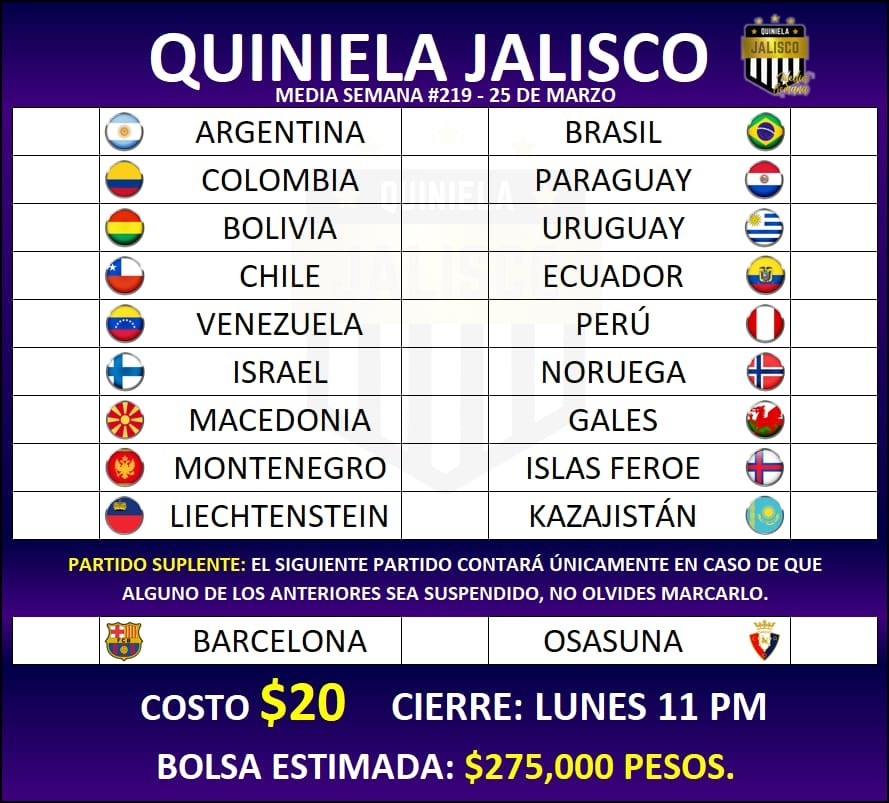
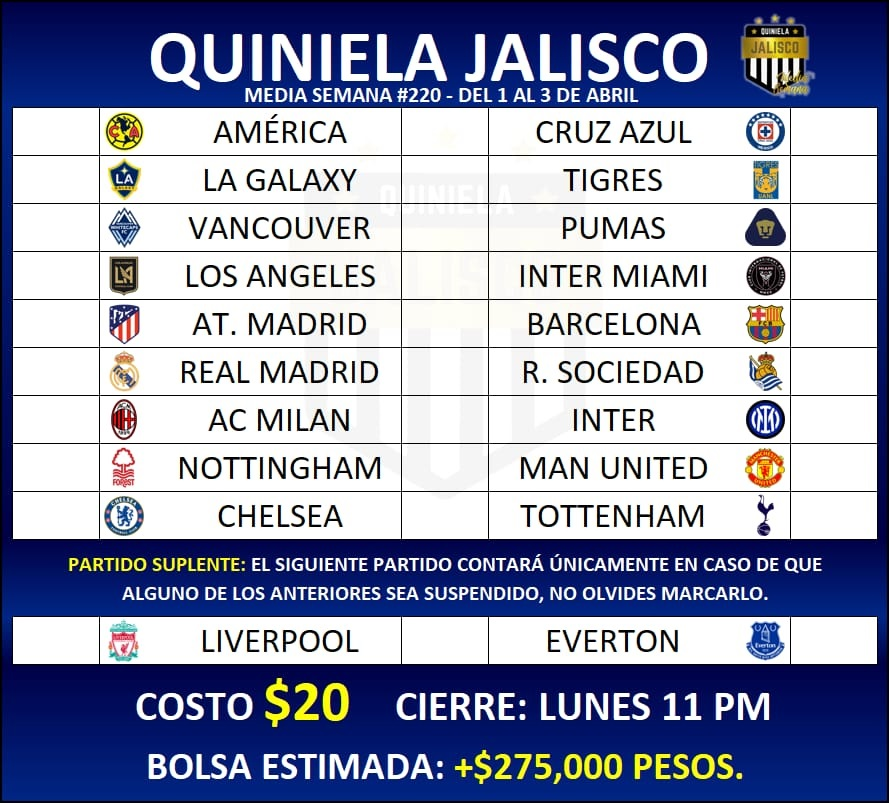
Media Semana #220

diff --git a/MediaSemana/stylesmSusp.css b/MediaSemana/stylesmSusp.css
@@ -94,8 +94,8 @@ body{
     margin-top: 9%;
     border: solid 1px black;
     border-radius: 0 0 14px 14px;
-    background: -webkit-linear-gradient(0.49turn, rgb(32 0 99) -7%, rgb(0 6 82) 80%);
-    background: linear-gradient(0.49turn, rgb(32 0 99) -7%, rgb(0 6 82) 80%);
+    background: -webkit-linear-gradient(0.49turn, rgb(0 20 106) -7%, rgb(0 6 82) 80%);
+    background: linear-gradient(0.49turn, rgb(0 20 106) -7%, rgb(0 6 82) 80%);
 }
 
 .text-lg{
@@ -294,7 +294,7 @@ h6{
 }
 
 #cantidad:before{
-    content:' $275,000 pesos';
+    content:' +$275,000 pesos';
     color: yellow;
     white-space:pre;
 }
